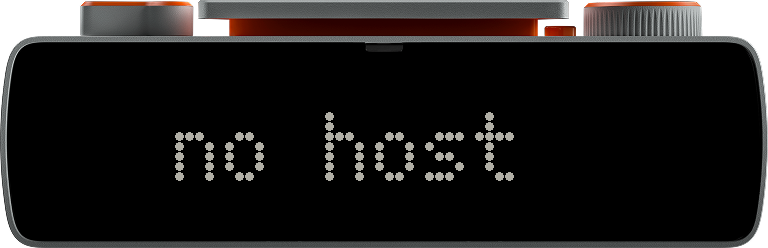
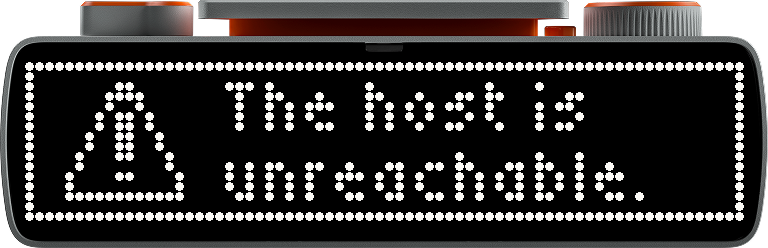
busybar: no host is a Mac alert, and it stops crying wolf
The old screen put the words "no host" on the bare canvas, and the previous
card's mascot showed through underneath them -- an image tombstone does not
destroy the element the way a text or rectangle one does, so the sprite was
live pixels no frame could remove. The alert covers the slot with an opaque
box instead of trusting it to leave, and the icon takes the mascot's `pet`
id, so the icon replaces the sprite and the next card's sprite replaces the
icon. Neither can linger under the other; verified both directions.

It is a System 7 caution alert: frame, icon left, sentence-case body right,
no button. Inverted, because a 72x16 white slab is the brightest thing this
device can show and a one-pixel dark stroke between lit LEDs blooms shut.
The icon is the caution triangle redrawn at 12x12 -- a size Apple never
shipped, not a copy of their bitmap.

And it waits before appearing. A dialog that covers the whole screen is a
large claim, and one failed poll does not support it, so three consecutive
failures do and the last good frame stands until then. WAIT_MS drops under
the device's client timeout for the same reason the daemon now caps its own
side. Verified against a stopped daemon: card still up at six seconds, alert
by twenty, and the card back afterwards.

diff --git a/busybar/petmeter/src/main.ts b/busybar/petmeter/src/main.ts
@@ -28,7 +28,19 @@ const SELF = "http://10.0.4.20";
 // reaches the screen in one round trip. A return with nothing changed is not
 // a failure: redrawing every WAIT_MS also restores the frame after anything
 // else clears the canvas.
-const WAIT_MS = 8_000;
+//
+// It must stay under the device's HTTP client timeout, which is somewhere
+// short of 8s. At 8000 this was invisible while the rotation ran -- `gen`
+// moves every few seconds, so polls came back at once -- and fatal the
+// moment it was paused: `gen` froze, every poll ran the full wait, every one
+// timed out, and the app sat on the alert insisting the host was gone.
+// Pause was a button that broke the screen. The daemon caps its own side too
+// (sinks/serve.py), which is what rescues a build already installed on a bar.
+const WAIT_MS = 3_000;
+// One failed poll is not a missing host. The alert is a big claim to put on
+// screen -- it covers everything -- so it waits for a few failures in a row
+// and the last good frame stands until then.
+const FAILS_BEFORE_ALERT = 3;
 const RETRY_MS = 1_000;
 const RETRY_MAX_MS = 10_000;
 
@@ -53,6 +65,7 @@ const SMALL_ADV = 4;
 const SMALL_WIDE = 6;   // "m" and "w"
 const NORMAL_ADV = 6;
 const WIDTH = 72;
+const HEIGHT = 16;
 
 // Thresholds and colours from the firmware's pct_color(), so the bar and the
 // meter on the desk never disagree about whether a number is alarming. The
@@ -99,14 +112,17 @@ const PET_IMAGE: Record<string, string> = {
  * which is why `reset` is always text and never a countdown.
  */
 const IDS: Array<[string, "text" | "rectangle" | "image"]> = [
-  // The mascot is tombstoned like everything else. Leaving it out is how the
-  // "no host" screen ended up with the previous card's Clawd still under the
-  // words: an id this frame does not name is an id the canvas keeps.
+  // The mascot is named every frame like everything else -- but an image
+  // tombstone does not destroy the element the way a text or rectangle one
+  // does; the sprite stays on screen. So no screen relies on it leaving: the
+  // alert reuses this id for its icon and covers the slot with an opaque box.
   ["pet", "image"],
   ["num", "text"],
   ["label", "text"],
   ["reset", "text"],
   ["msg", "text"],
+  ["msg2", "text"],
+  ["box", "rectangle"],
   ["track", "rectangle"],
   ["fill", "rectangle"],
   ["paused", "rectangle"],
@@ -356,20 +372,70 @@ function frame(card: Card, left: number | null, paused: boolean,
 }
 
 /**
+ * THE HOST ALERT IS A SYSTEM 7 CAUTION ALERT, INVERTED.
+ *
+ * Structure from the original: a frame, the caution icon at left, a
+ * sentence-case body at right with its first line on the icon's top row, no
+ * button. Two things gave. The frame is one pixel, not the dialog's five
+ * (black, white, a two-pixel band, black): sixteen rows cannot pay for that
+ * twice and still hold two lines. And it is lit-on-dark, not black-on-white.
+ * A 72x16 white slab is the brightest thing this device can show, in the
+ * state that mostly means the Mac is asleep; and a one-pixel dark stroke
+ * inside lit LEDs blooms shut, so the body would not read. The matrix
+ * decides the tonality; the structure is what reads as a Mac dialog.
+ *
+ * The icon is the System 7 caution icon redrawn at 12x12 from the 32x32
+ * original -- 2px apex and bar, sides stepping one column every two rows, a
+ * solid tip, the dot a row clear of the base -- a rendering at a size Apple
+ * never shipped, not a copy of their bitmap.
+ *
+ * The box is solid black on purpose. An image tombstone does not destroy the
+ * element -- the previous card's mascot survives it -- so the dialog covers
+ * the mascot's slot with an opaque fill rather than trusting it to leave. And
+ * the icon takes the mascot's id: `pet` is the app's one image, so the icon
+ * replaces the sprite and the next card's sprite replaces the icon, and
+ * neither can linger under the other. Above the toast's z so a word already
+ * on its two-second timer cannot sit on top of the dialog.
+ */
+const ALERT_ICON = "appmeta/assets/caution_12.png";
+const ALERT_ICON_X = 4;                 // three lit columns of margin
+const ALERT_ICON_Y = 2;                 // rows 2..13, the text block's height
+const ALERT_TEXT_X = 20;                // twelve `small` characters to the frame
+const ALERT_LINE_Y: [number, number] = [0, 7];   // caps on rows 2..6 and 9..13
+const ALERT_Z = 200;
+
+// Sentence case and a full stop, the way a Mac alert's body reads. A line is
+// twelve characters: "The host could not be reached." wants fifteen on its
+// second line and never fits, so the sentence is chosen to the width.
+const ALERT_BODY: Record<string, [string, string]> = {
+  "no host": ["The host is", "unreachable."],
+  "no data": ["The host has", "no data yet."],
+};
+
+function macAlert(lines: [string, string]): Element[] {
+  const z = ALERT_Z + 10;
+  return complete([
+    { ...rect("box", 0, 0, WIDTH, HEIGHT, "#000000FF", COL_TEXT), z_index: ALERT_Z },
+    { id: "pet", type: "image", path: ALERT_ICON, x: ALERT_ICON_X, y: ALERT_ICON_Y,
+      display: "front", timeout: 0, z_index: z },
+    { ...text("msg", lines[0], "small", ALERT_TEXT_X, ALERT_LINE_Y[0], COL_TEXT), z_index: z },
+    { ...text("msg2", lines[1], "small", ALERT_TEXT_X, ALERT_LINE_Y[1], COL_TEXT), z_index: z },
+  ]);
+}
+
+/**
  * The pet says "app alive, host present, reading missing", so `no data` keeps
- * it and centres the words in the pane beside it. `no host` drops it -- the
- * pet lives on the host -- and centres on the whole screen, which only works
- * because `pet` is tombstoned above.
+ * it and centres the words in the pane beside it. Without a pet the message
+ * is the alert -- `no host` above all, since the pet lives on the host and
+ * the dialog stands where it stood.
  */
 function message(value: string, withPet: Card | null): Element[] {
-  const width = value.length * NORMAL_ADV;
   if (withPet) {
+    const width = value.length * NORMAL_ADV;
     const x = NUM_X + Math.round((WIDTH - NUM_X - width) / 2);
     return complete([petOf(withPet), text("msg", value, "normal", x, 3, COL_DIM)]);
   }
-  return complete([
-    text("msg", value, "normal", Math.round((WIDTH - width) / 2), 3, COL_DIM),
-  ]);
+  return macAlert(ALERT_BODY[value] ?? [value, " "]);
 }
 
 /**
@@ -414,6 +480,7 @@ export default function run(): void {
   let gen = -1;
   let polledAt = 0;
   let backoff = RETRY_MS;
+  let fails = 0;
   let wasPaused: boolean | null = null;
 
   const report = (err: unknown) =>
@@ -447,6 +514,7 @@ export default function run(): void {
         const data = await fetch(url).then((r) => r.json());
         polledAt = Date.now();
         backoff = RETRY_MS;
+        fails = 0;
 
         cards = Array.isArray(data.cards) ? data.cards : [];
         const control = data.control ?? { index: 0, paused: false, gen: 0 };
@@ -470,7 +538,9 @@ export default function run(): void {
         // Host asleep, unplugged, or the daemon stopped. Say which rather
         // than leaving the last good frame up to go quietly stale.
         report(err);
-        await draw(message("no host", null)).catch(report);
+        if (++fails >= FAILS_BEFORE_ALERT) {
+          await draw(message("no host", null)).catch(report);
+        }
         await new Promise((resolve) => setTimeout(resolve, backoff));
         backoff = Math.min(backoff * 2, RETRY_MAX_MS);
       }
